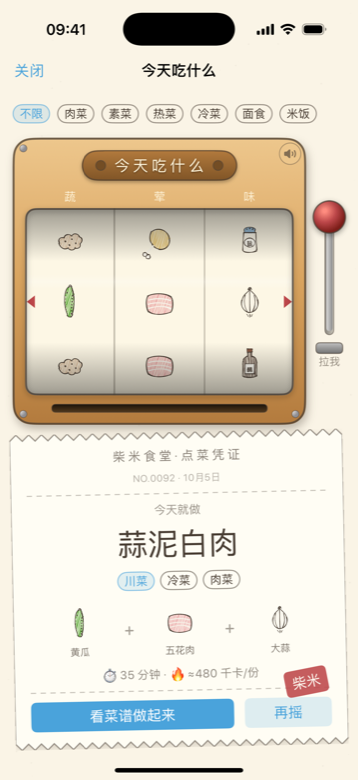
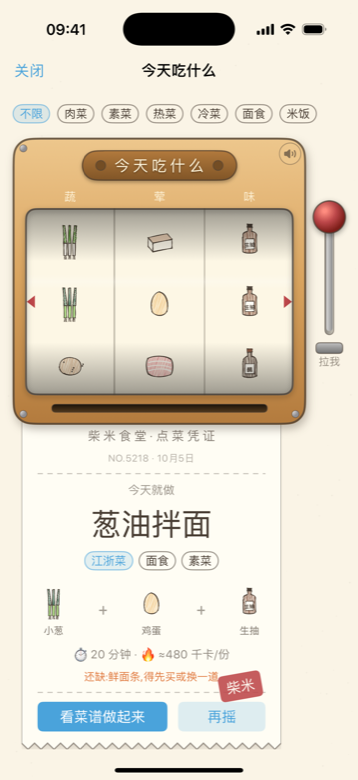
fix(slot): 凭条改为从出票缝物理抽出
- 凭条锚定在机身底部出票缝正下方(负上边距+机身高 zIndex 遮挡未出部分),
  底边对齐容器、容器高度随打印进度增长 → 整票向下滑出,先见票尾后见票头
- 两段式动画:匀速抽出 90% + 弹簧拽到底;高度用 GeometryReader 实测,fixedSize 防压缩
- 再摇时旧票以打印声倒吸回机器后开新一轮(替代原飞出消失)
- 容器水平内缩对齐机身投影,避开右侧拉杆

diff --git a/Chaimi/Views/Recipes/SlotMachineView.swift b/Chaimi/Views/Recipes/SlotMachineView.swift
@@ -16,11 +16,11 @@ struct SlotMachineView: View {
     @State private var lampTick = false
     @State private var soundOn = SoundPlayer.shared.enabled
 
-    // 出票动画
+    // 出票动画:凭条从出票口整体下滑抽出,被机身"遮住"的部分不可见
     @State private var ticketVisible = false
     @State private var printProgress: CGFloat = 0
     @State private var stamped = false
-    @State private var ticketFly = false
+    @State private var ticketHeight: CGFloat = 470
     @State private var ticketNo = Int.random(in: 1...9999)
 
     private let rowHeight: CGFloat = 70
@@ -38,19 +38,24 @@ struct SlotMachineView: View {
             ZStack {
                 PaperBackground()
                 ScrollView {
-                    VStack(spacing: 14) {
+                    VStack(spacing: 0) {
                         typeChips
+                            .padding(.bottom, 14)
                         HStack(alignment: .center, spacing: 8) {
                             machineBody
                             LeverView(disabled: spinning) { spin() }
                         }
+                        .zIndex(1)                     // 机身盖住还没抽出来的票
                         ticketArea
+                            .padding(.leading, 10)
+                            .padding(.trailing, 72)    // 对准机身(避开右侧拉杆),从出票口正下方出来
                         if !ticketVisible && !spinning {
                             Text("👉 往下拽右边的拉杆\n从你家库存里摇出今天这顿")
                                 .font(.hand(14))
                                 .multilineTextAlignment(.center)
                                 .foregroundStyle(Color.ink.opacity(0.55))
-                                .padding(.top, 2)
+                                .frame(maxWidth: .infinity)
+                                .padding(.top, 16)
                         }
                     }
                     .padding(14)
@@ -250,17 +255,25 @@ struct SlotMachineView: View {
             .overlay(RoundedRectangle(cornerRadius: 4).stroke(Color.ink.opacity(0.6), lineWidth: 1).padding(.horizontal, 30))
     }
 
-    // MARK: 出票区
+    // MARK: 出票区(凭条从机身底部缝隙滑出)
 
     @ViewBuilder
     private var ticketArea: some View {
         if ticketVisible, let recipe = result {
             TicketView(recipe: recipe, no: ticketNo, pantryIds: pantryIds, stamped: stamped, onAgain: { reSpin() })
-                .frame(maxHeight: printProgress >= 1 ? nil : 470 * printProgress, alignment: .top)
+                .fixedSize(horizontal: false, vertical: true)
+                .background(
+                    GeometryReader { geo in
+                        Color.clear
+                            .onAppear { ticketHeight = geo.size.height }
+                            .onChange(of: geo.size.height) { _, h in ticketHeight = h }
+                    }
+                )
+                .rotationEffect(.degrees(0), anchor: .top)
+                // 底边对齐容器底:容器变高 = 凭条被一点点"抽"下来
+                .frame(height: max(1, ticketHeight * printProgress), alignment: .bottom)
                 .clipped()
-                .rotationEffect(.degrees(ticketFly ? 10 : (stamped ? -1.2 : 0)))
-                .offset(y: ticketFly ? 160 : -16)
-                .opacity(ticketFly ? 0 : 1)
+                .padding(.top, -14)   // 容器顶对准机身底部的出票缝(机身 zIndex 更高,盖住未出部分)
         }
     }
 
@@ -289,8 +302,10 @@ struct SlotMachineView: View {
     }
 
     private func reSpin() {
-        withAnimation(.easeIn(duration: 0.22)) { ticketFly = true }
-        DispatchQueue.main.asyncAfter(deadline: .now() + 0.24) { spin() }
+        // 旧票被"吸"回打印口,再开新一轮
+        SoundPlayer.shared.play("slot_print")
+        withAnimation(.easeIn(duration: 0.35)) { printProgress = 0 }
+        DispatchQueue.main.asyncAfter(deadline: .now() + 0.38) { spin() }
     }
 
     private func spin() {
@@ -300,7 +315,6 @@ struct SlotMachineView: View {
         let pools = SlotEngine.pools(pantryCatalogIds: pantryIds)
 
         ticketVisible = false
-        ticketFly = false
         stamped = false
         printProgress = 0
         spinning = true
@@ -336,8 +350,12 @@ struct SlotMachineView: View {
     private func printTicket() {
         ticketVisible = true
         SoundPlayer.shared.play("slot_print")
-        withAnimation(.easeOut(duration: 0.95)) { printProgress = 1 }
-        DispatchQueue.main.asyncAfter(deadline: .now() + 1.05) {
+        // 两段式:先匀速抽出大半,最后"噔"地一下拽到底
+        withAnimation(.easeInOut(duration: 0.78)) { printProgress = 0.9 }
+        DispatchQueue.main.asyncAfter(deadline: .now() + 0.8) {
+            withAnimation(.spring(response: 0.28, dampingFraction: 0.6)) { printProgress = 1 }
+        }
+        DispatchQueue.main.asyncAfter(deadline: .now() + 1.12) {
             SoundPlayer.shared.play("slot_stamp")
             UINotificationFeedbackGenerator().notificationOccurred(.success)
             withAnimation(.spring(response: 0.3, dampingFraction: 0.5)) { stamped = true }

diff --git a/README.md b/README.md
@@ -22,7 +22,7 @@
   2. **拍食材(离线)**:Vision 图像分类,映射到目录候选。
   3. **手动添加**:190 种目录网格浏览 + 搜索。
   - 配了 API Key 后,任何图可用 **Claude 视觉**重新识别(准确率更高,支持任意小票版式)。
-- **🎰 老虎机摇菜(拟物)**:木纹机身、闪灯招牌、圆筒转轮窗,右侧**可拖拽的红球拉杆**(拽过 60% 松手开摇、弹簧回弹);程序合成的 8-bit 音效(拉杆咔嚓/转轮嗒嗒由密到疏、重音对准停轮/出票滋滋+叮/盖章咚,跟随静音拨片,机身可静音);停轮后凭证从**出票口打印着伸出来**,红印"咚"地盖下。可筛 肉菜/素菜/热菜/冷菜/面食/米饭,落点永远对应一道真实可做的菜(库存齐全、消耗临期加权),不满意旧票飞走再摇。
+- **🎰 老虎机摇菜(拟物)**:木纹机身、闪灯招牌、圆筒转轮窗,右侧**可拖拽的红球拉杆**(拽过 60% 松手开摇、弹簧回弹);程序合成的 8-bit 音效(拉杆咔嚓/转轮嗒嗒由密到疏、重音对准停轮/出票滋滋+叮/盖章咚,跟随静音拨片,机身可静音);停轮后凭条**从机身底部的出票缝里一点点抽出来**(顶端被机身遮住、随打印进度整体下滑,最后"噔"地拽到底),红印"咚"地盖下;再摇时旧票会倒着缩回机器。可筛 肉菜/素菜/热菜/冷菜/面食/米饭,落点永远对应一道真实可做的菜(库存齐全、消耗临期加权),不满意旧票飞走再摇。
 - **菜谱推荐**
   - 内置 **52 道**家常菜谱(川/粤/湘/鲁/江浙/东北/西北/家常),按"主料在库覆盖率 + 是否消耗临期食材"打分排序,顶部横排提示"先吃它们"。
   - 菜谱详情:主料 ✅/🛒 对照库存、调料有缺标色、步骤;**"做好了"一键扣库存 + 按份数记卡路里**(调料默认不扣)。
